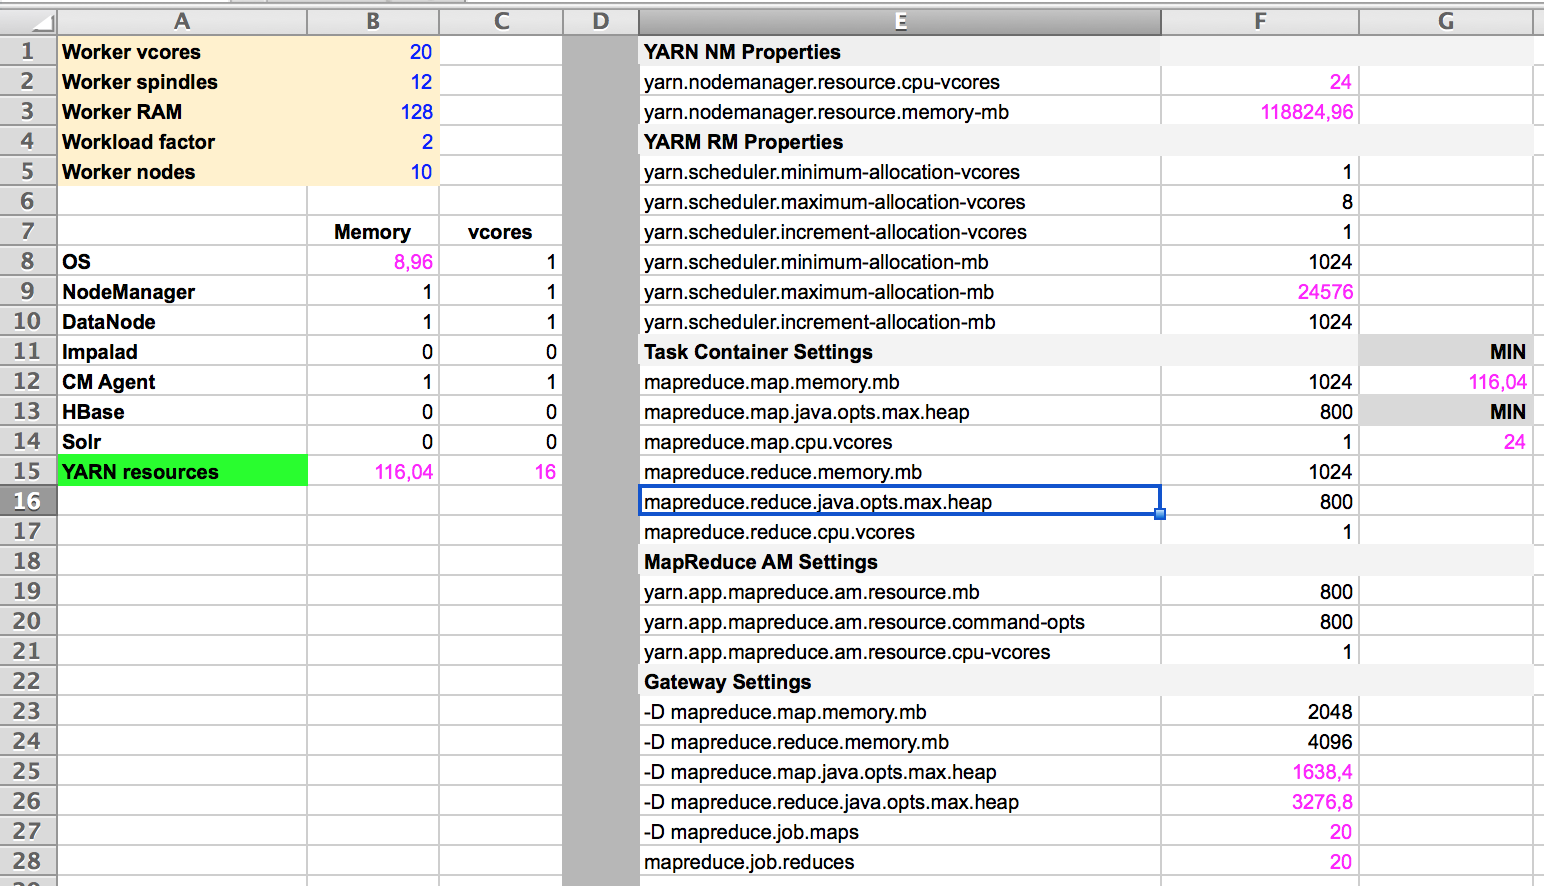
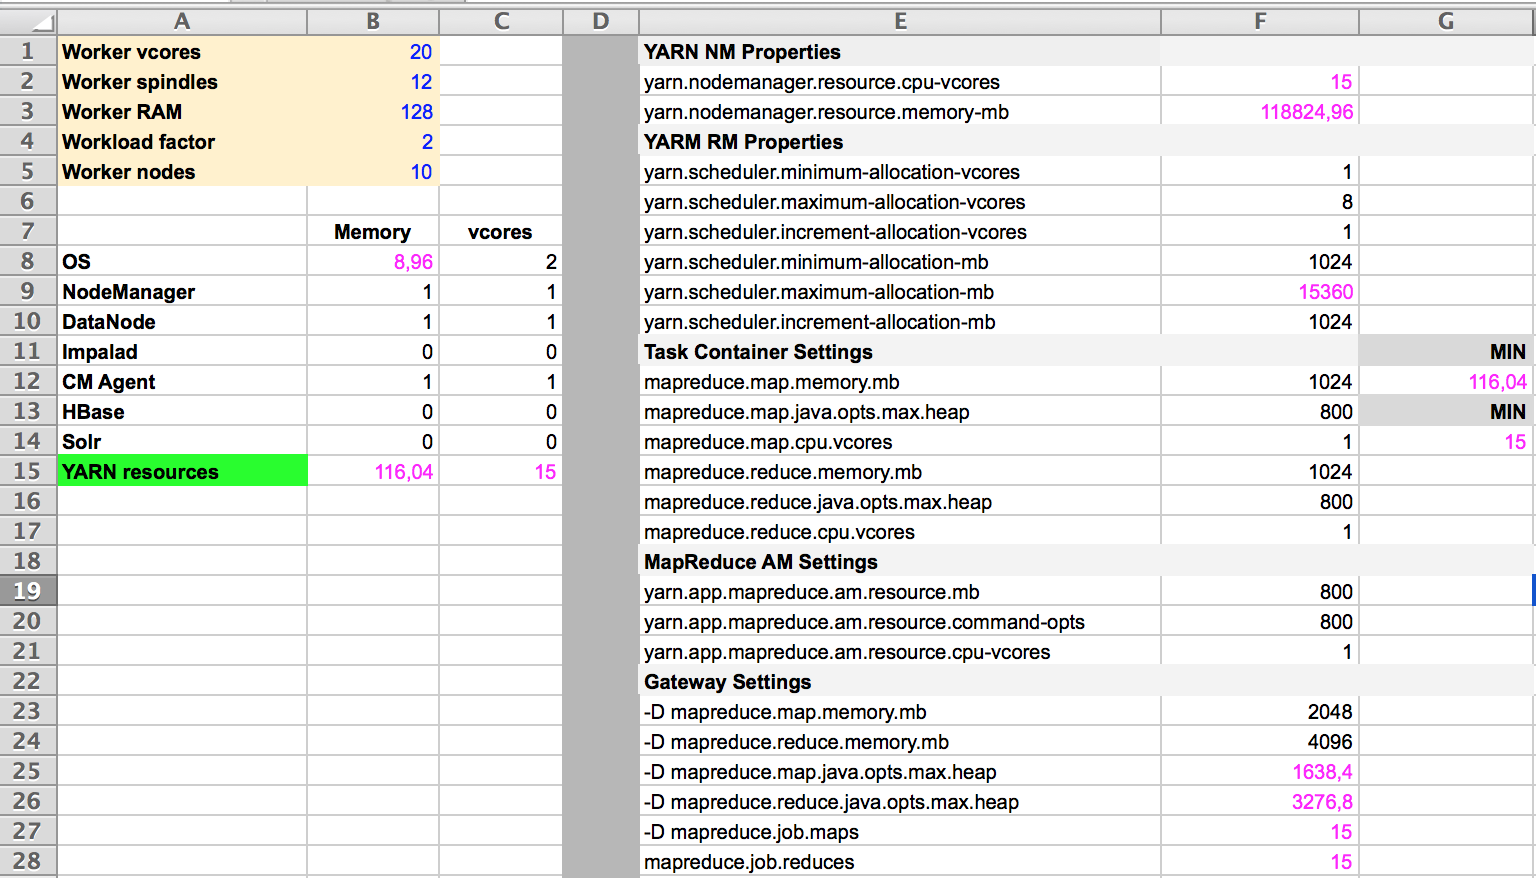
Resource Lab

diff --git a/resources/labs/0_YarnCalcs.md b/resources/labs/0_YarnCalcs.md
@@ -12,9 +12,9 @@ Parameters Settings: <br/>
 Comments:<br>
 <ul>
 <li>
-memory addressed to OS is too high for a worker node. The best is to give about 0,7% (aprox.9G) of the OS memory is more than enough.
+Memory and CPU addressed to OS is too high for a worker node. The best is to give about 0,7% (aprox.9G) of the OS memory is more than enough.
 </li>
-<li>(Cell F2) yarn.nodemanager.resource.cpu-vcores * "workload factor" to allow to execute more tasks per CPU</li>
+
 </ul>
 <b>2. What criteria affects workload factor? What does a value of 1, 2, or 4 signify?</b>
 
